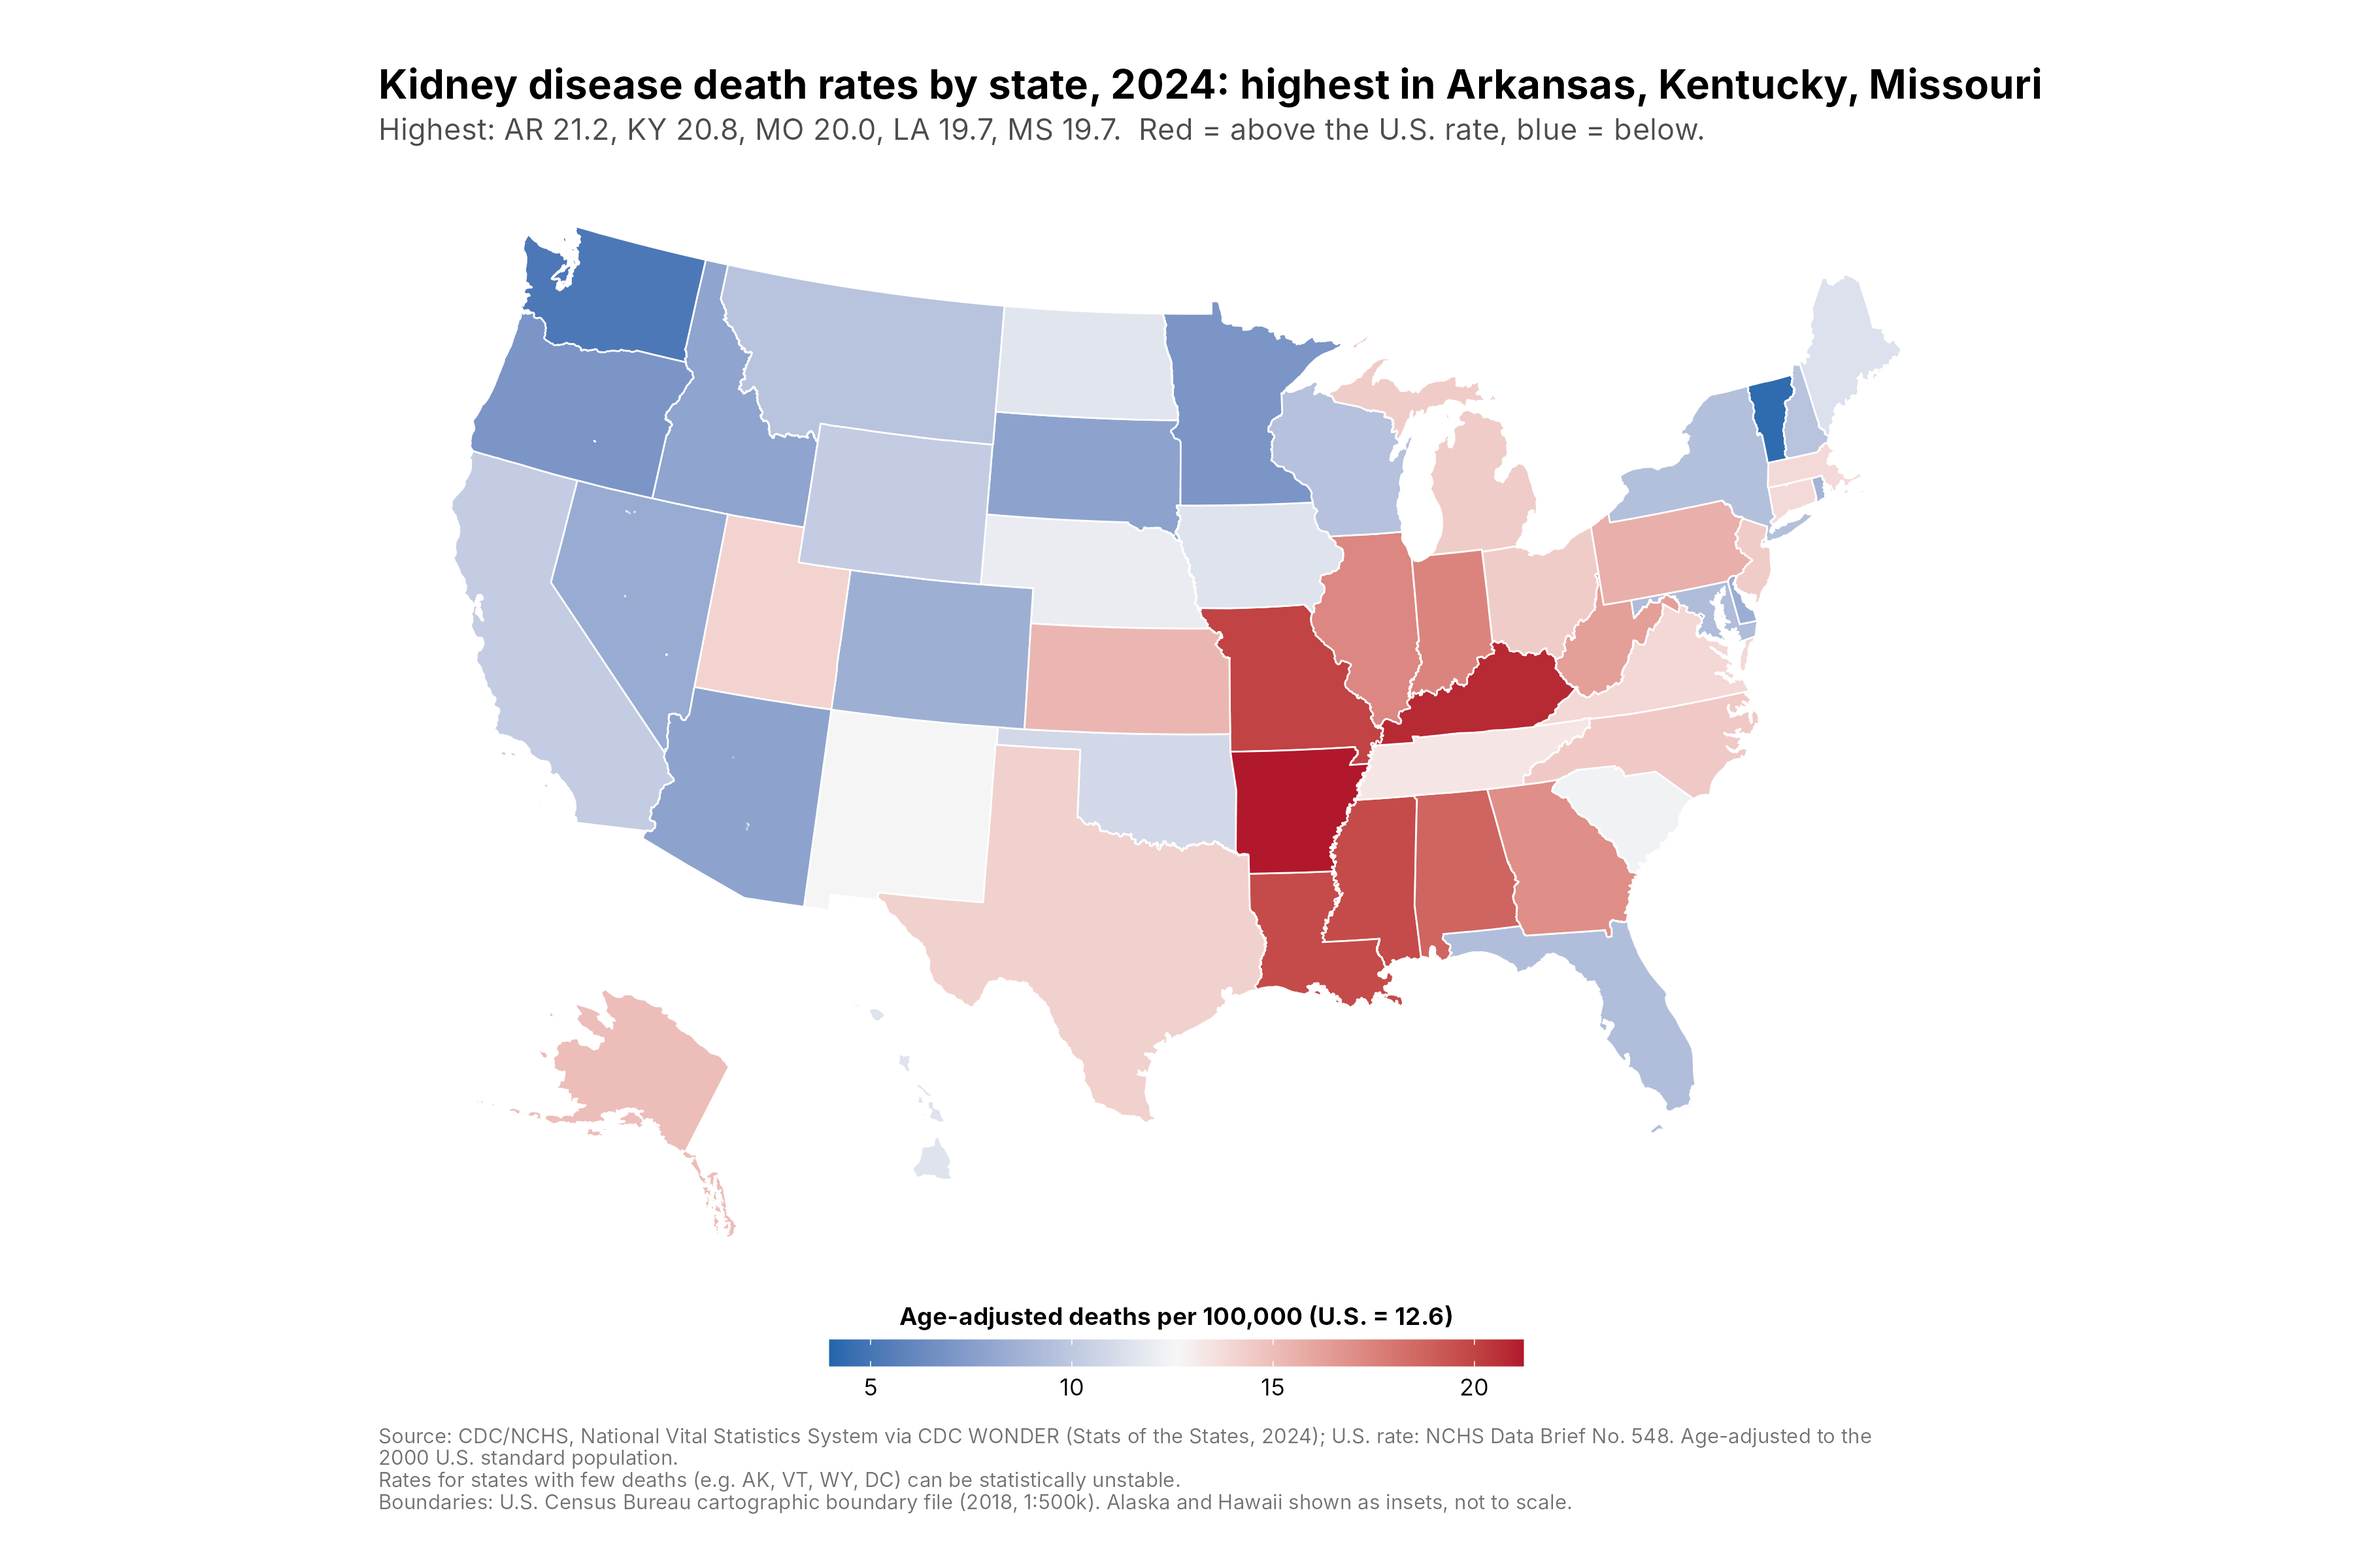
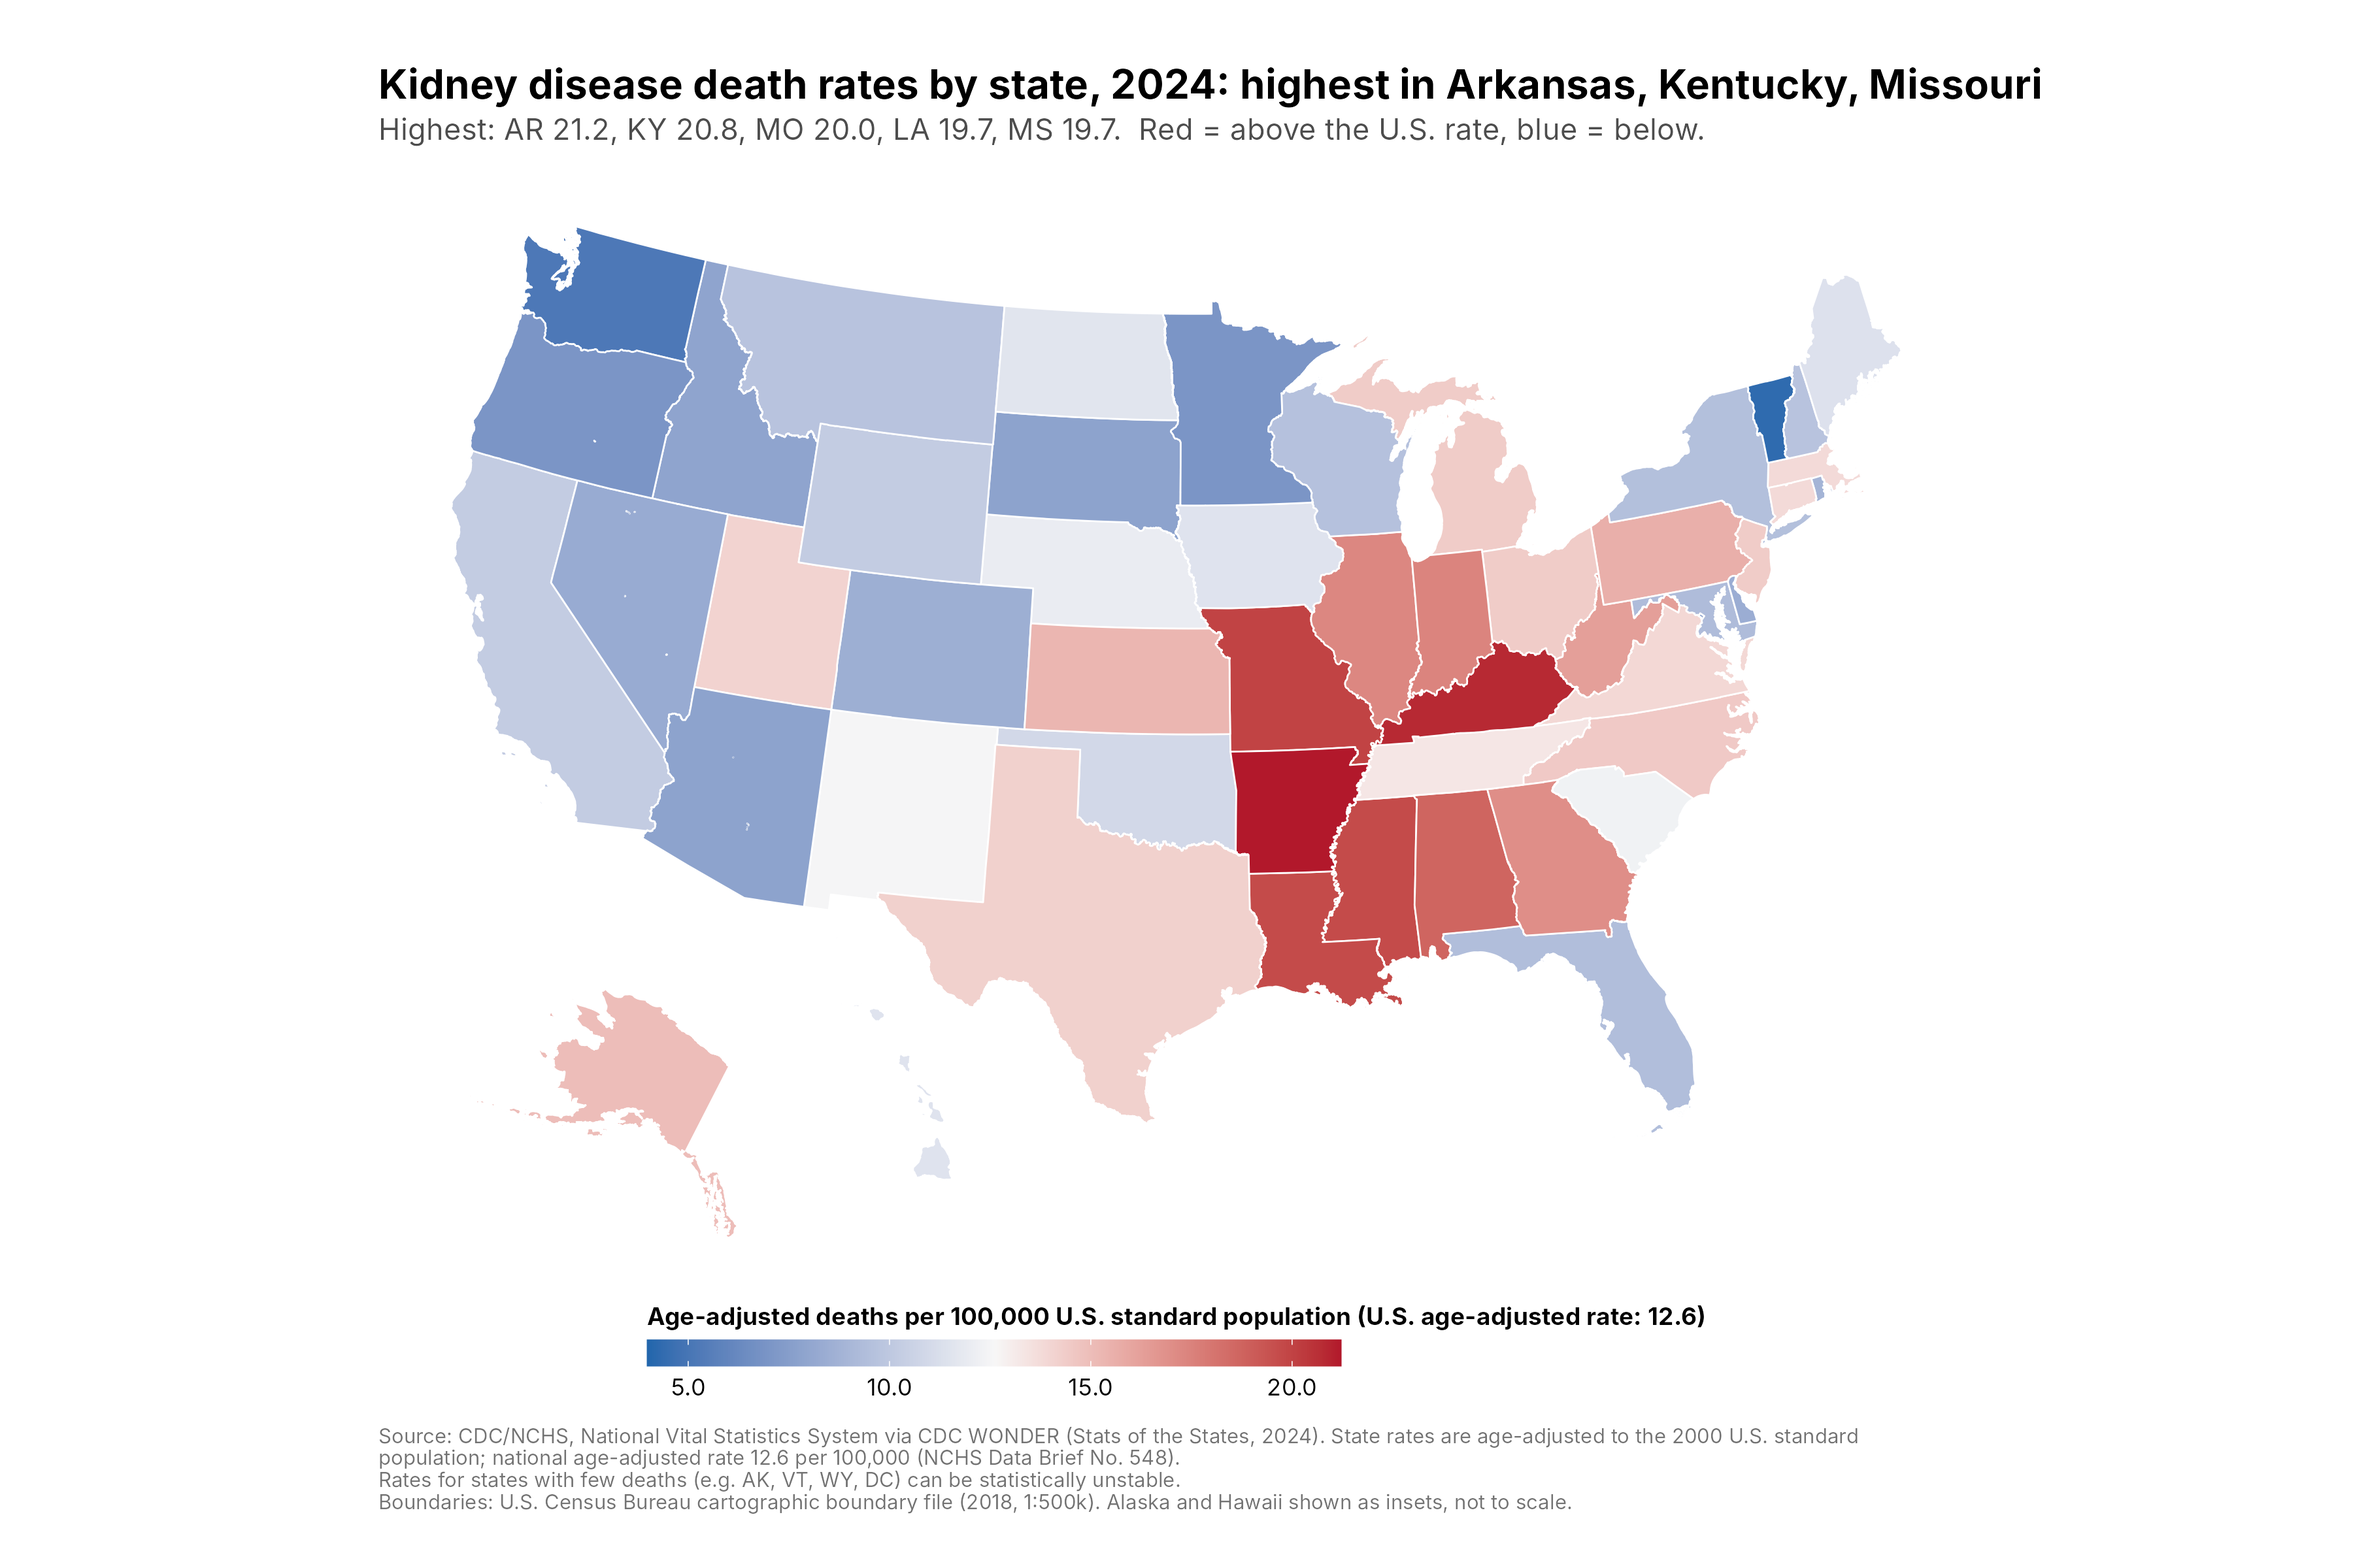
Apply review wording: age-adjusted labels, one-decimal legend, captions
- Reference line and legend say "U.S. age-adjusted rate: 12.6"
- Legend uses one-decimal labels; ranked-chart title no longer truncated
- README: explicit age-adjusted vs crude benchmark wording; 2017-2024
  comparison stated as like-for-like; stronger small-numbers caveat

Claude-Session: https://claude.ai/code/session_01U8gaD2uJ7vyBqbwkCJg6y5

Changed region(s): [[0.28, 0.8125, 0.7156, 0.9062], [0.56, 0.9062, 0.7778, 0.9375], [0.1556, 0.9062, 0.3111, 0.9375]]

diff --git a/README.md b/README.md
@@ -8,7 +8,7 @@
 - **23 of 51 jurisdictions** (50 states + DC) are above the national rate.
 - The highest rates are concentrated in the **mid-South**: Arkansas 21.2, Kentucky 20.8, Missouri 20.0, Louisiana 19.7, Mississippi 19.7, Alabama 18.7.
 - The lowest are Vermont 4.3, Washington 5.2, Minnesota 7.0 and Oregon 7.0. The highest rate is **4.9×** the lowest.
-- **Since 2017:** the same Southern belt still leads. The largest moves were Delaware (16.1 → 8.4) and Alaska (9.9 → 15.0). Both have small numbers of deaths (131 and 103), so treat single-year changes there with caution.
+- **Since 2017** (both years age-adjusted to the 2000 standard, so the comparison is like-for-like): the same Southern belt still leads. The largest moves were Delaware (16.1 → 8.4) and Alaska (9.9 → 15.0). Both have small numbers of deaths (131 and 103), so the change may reflect random variation or coding differences rather than a lasting trend. Don't read either as a confirmed improvement or deterioration.
 - **Public-health takeaway:** screening and early kidney-care programmes (for diabetes and hypertension, the main drivers of chronic kidney disease) have the most room for impact in AR, KY, MO, LA, MS and AL.
 
 ![States ranked against the U.S. rate](kidney_disease_ranked.png)
@@ -25,7 +25,7 @@
 
 **Checks:** the 2024 values were copied from the CDC page's table view. The 51 state death counts add up to exactly **55,081**, CDC's national total. Each state's age-adjusted rate also sits in a plausible range relative to its crude rate.
 
-**Benchmark note:** FastStats also shows "16.2 deaths per 100,000 population". That is the **crude** rate, not comparable with age-adjusted state rates, so the map uses the age-adjusted 12.6.
+**Benchmark note:** state rates are age-adjusted to the U.S. 2000 standard population. The national reference is therefore CDC's 2024 **age-adjusted** kidney disease death rate of **12.6** deaths per 100,000 standard population. FastStats' 16.2 deaths per 100,000 population is a **crude** rate and is not directly comparable.
 
 **Stability note:** CDC cautions that rates for states with few deaths can be statistically unstable (e.g. AK, VT, WY, DC).
 
